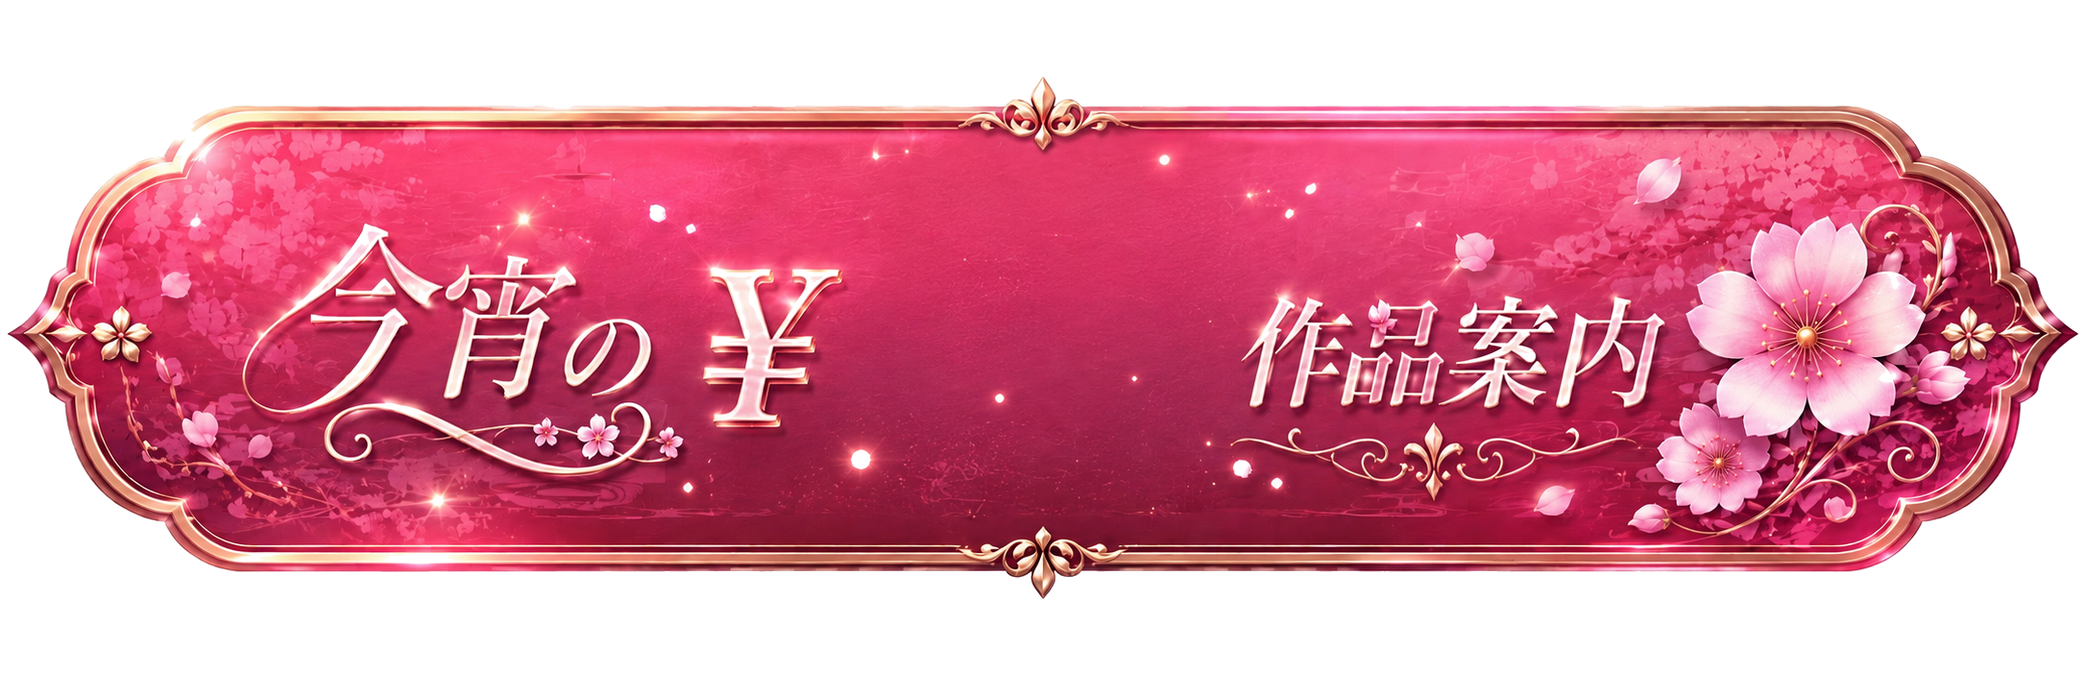
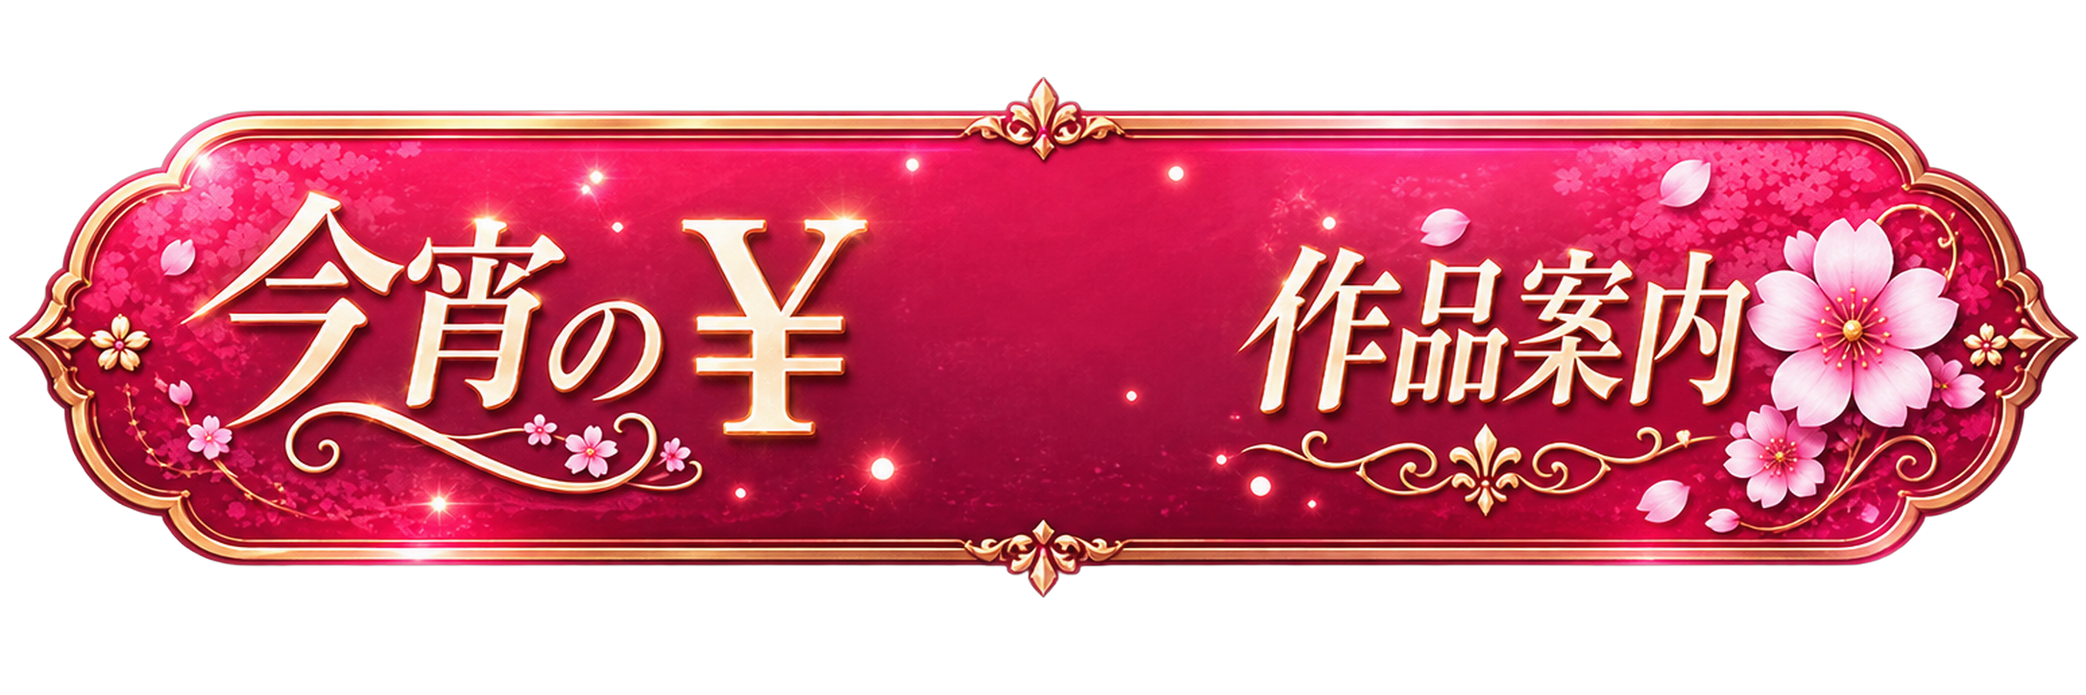
feat(セール札/宵桜価格): 焼き込み文字拡大の新PNGへ差し替え+数字slotを新¥へ追従(v=699)

diff --git a/index.html b/index.html
@@ -14,16 +14,16 @@
 <meta name="apple-mobile-web-app-status-bar-style" content="black-translucent">
 <meta name="apple-mobile-web-app-title" content="5秒動画">
 <meta name="theme-color" content="#0b0f17">
-<link rel="manifest" href="manifest.webmanifest?v=698">
-<link rel="apple-touch-icon" href="assets/icons/app-180.png?v=698">
-<link rel="icon" type="image/png" sizes="192x192" href="assets/icons/app-192.png?v=698">
-<link rel="icon" type="image/png" sizes="512x512" href="assets/icons/app-512.png?v=698">
-<link rel="icon" type="image/png" href="assets/icons/app-192.png?v=698">
+<link rel="manifest" href="manifest.webmanifest?v=699">
+<link rel="apple-touch-icon" href="assets/icons/app-180.png?v=699">
+<link rel="icon" type="image/png" sizes="192x192" href="assets/icons/app-192.png?v=699">
+<link rel="icon" type="image/png" sizes="512x512" href="assets/icons/app-512.png?v=699">
+<link rel="icon" type="image/png" href="assets/icons/app-192.png?v=699">
 <title>5秒動画メーカー</title>
 <link rel="preconnect" href="https://fonts.googleapis.com">
 <link rel="preconnect" href="https://fonts.gstatic.com" crossorigin>
 <link href="https://fonts.googleapis.com/css2?family=Noto+Sans+JP:wght@500;700;900&display=swap" rel="stylesheet">
-<link rel="stylesheet" href="style.css?v=698">
+<link rel="stylesheet" href="style.css?v=699">
 <script>
 /* 継ぎ目対策(2026-07-29): タブ背景のCSSフック(data-tab)を「描画前」に確定させる。
    これが無いと、復元先タブ(予約/分析/候補/ランキング)のクリーム封鎖が効くのは
@@ -47,7 +47,7 @@ try {
   }, true);
   document.addEventListener('DOMContentLoaded', function () {
     try {
-      // ★v=605の filter は /\.js$/ で判定していたが、実ファイル名は "bluesky.js?v=698" と
+      // ★v=605の filter は /\.js$/ で判定していたが、実ファイル名は "bluesky.js?v=699" と
       //   ?v= が付くため全て弾かれ、初期化エラーが1件も出ず「例外なし」に見えていた(2026-08-03 真因)。
       //   クエリを外してから .js を判定する。加えて、拾えた未捕捉エラーはそのまま出す(沈黙を残さない)。
       var errs = (window.__go5Errs || []).filter(function (e) {
@@ -84,11 +84,11 @@ try {
 <nav class="tabbar">
   <button id="tabCand"    class="tab">💡 候補</button>
   <button id="tabVerify" class="tab">📋 投稿履歴</button>
-  <button id="tabMovie" class="tab active"><img class="emico" src="assets/icons/ic-movie.png?v=698" alt=""> 動画作成</button>
+  <button id="tabMovie" class="tab active"><img class="emico" src="assets/icons/ic-movie.png?v=699" alt=""> 動画作成</button>
   <button id="tabStock" class="tab">📦 ドラフト</button>
   <button id="tabYT"    class="tab"><svg viewBox="0 0 28 20" style="height:1em;width:1.4em;vertical-align:-0.18em" aria-hidden="true"><rect width="28" height="20" rx="6" fill="#FF0000"/><path d="M11 6 L11 14 L20 10 Z" fill="#fff"/></svg> 投稿</button>
-  <button id="tabPost"  class="tab"><img class="emico" src="assets/icons/ic-bsky.png?v=698" alt=""> 投稿</button>
-  <button id="tabAffi"  class="tab"><img class="emico" src="assets/icons/ic-link.png?v=698" alt=""> AFIリンク</button>
+  <button id="tabPost"  class="tab"><img class="emico" src="assets/icons/ic-bsky.png?v=699" alt=""> 投稿</button>
+  <button id="tabAffi"  class="tab"><img class="emico" src="assets/icons/ic-link.png?v=699" alt=""> AFIリンク</button>
   <button id="tabSettings" class="tab">⚙ 詳細設定</button>
 </nav>
 
@@ -279,13 +279,13 @@ try {
   <section class="card">
     <label class="bsky-toggle">
       <input id="bskyEnable" type="checkbox">
-      <span><img class="emico" src="assets/icons/ic-bsky.png?v=698" alt="Bluesky"> 動画作成後に Bluesky へ自動投稿する</span>
+      <span><img class="emico" src="assets/icons/ic-bsky.png?v=699" alt="Bluesky"> 動画作成後に Bluesky へ自動投稿する</span>
     </label>
     <label class="bsky-toggle" style="margin-top:8px;">
       <input id="testMode" type="checkbox">
       <span>🧪 テストモード(Blueskyへは実際に投稿するが、記録シートには残さない)</span>
     </label>
-    <div class="hint">本文は「<img class="emico" src="assets/icons/ic-bsky.png?v=698" alt="Bluesky"> 投稿」タブで編集した内容、画像は<b>この動画の元写真</b>を添付します。アカウント設定も「<img class="emico" src="assets/icons/ic-bsky.png?v=698" alt="Bluesky"> 投稿」タブにあります。<br>単独で投稿したいときは「<img class="emico" src="assets/icons/ic-bsky.png?v=698" alt="Bluesky"> 投稿」タブの「今すぐ投稿」をどうぞ。</div>
+    <div class="hint">本文は「<img class="emico" src="assets/icons/ic-bsky.png?v=699" alt="Bluesky"> 投稿」タブで編集した内容、画像は<b>この動画の元写真</b>を添付します。アカウント設定も「<img class="emico" src="assets/icons/ic-bsky.png?v=699" alt="Bluesky"> 投稿」タブにあります。<br>単独で投稿したいときは「<img class="emico" src="assets/icons/ic-bsky.png?v=699" alt="Bluesky"> 投稿」タブの「今すぐ投稿」をどうぞ。</div>
     <div class="movie-work" style="margin-top:12px;">
       <label class="field-label" for="movieWorkUrl" style="margin:0 0 4px;font-size:.8rem;">📕 今回案内する作品URL(今日の作品を貼る・取り違え防止)</label>
       <a id="movieWorkLink" href="#" target="_blank" rel="noopener noreferrer" style="display:block;white-space:nowrap;overflow:hidden;text-overflow:ellipsis;color:var(--accent);font-size:.85rem;min-height:1.4em;margin-bottom:4px;">(URLを入力してください)</a>
@@ -323,7 +323,7 @@ try {
       <label class="disc-new"><input id="discountNew2" type="checkbox"><span>新作</span></label>
       <label class="disc-new"><input id="discountDigest2" type="checkbox"><span>総集編</span></label>
       <label class="disc-new"><input id="movieJunshinsaku" type="checkbox"><span>準新作</span></label>
-      <span class="hint" style="margin:0;">投稿本文(自動投稿・今すぐ投稿で共通)に割引文を挿入します。「<img class="emico" src="assets/icons/ic-bsky.png?v=698" alt="Bluesky">投稿」タブの本文に反映されます。「新作」で「オフの新作」、「総集編」で「オフの総集編」、両方で「オフの新作&総集編」に文面が変わります。<br>「準新作」は本文に影響しませんが、投稿時の<b>作品状態</b>として記録します。(新作・準新作いずれも無し＝旧作)</span>
+      <span class="hint" style="margin:0;">投稿本文(自動投稿・今すぐ投稿で共通)に割引文を挿入します。「<img class="emico" src="assets/icons/ic-bsky.png?v=699" alt="Bluesky">投稿」タブの本文に反映されます。「新作」で「オフの新作」、「総集編」で「オフの総集編」、両方で「オフの新作&総集編」に文面が変わります。<br>「準新作」は本文に影響しませんが、投稿時の<b>作品状態</b>として記録します。(新作・準新作いずれも無し＝旧作)</span>
     </div>
     <div class="status" id="bskyStatus"></div>
   </section>
@@ -360,7 +360,7 @@ try {
   <div class="cal-frame-wrap">
     <iframe id="calFrame" class="cal-frame" title="投稿スケジュール カレンダー" loading="lazy"></iframe>
   </div>
-  <p class="hint" style="text-align:center;max-width:520px;margin:8px auto 0;">📅 最適な投稿スロット(日時・枠)を管理。各枠を決めたら「<img class="emico" src="assets/icons/ic-movie.png?v=698" alt=""> 動画作成」「<img class="emico" src="assets/icons/ic-bsky.png?v=698" alt="Bluesky"> 投稿」へ。データはこの端末内で共有されます。</p>
+  <p class="hint" style="text-align:center;max-width:520px;margin:8px auto 0;">📅 最適な投稿スロット(日時・枠)を管理。各枠を決めたら「<img class="emico" src="assets/icons/ic-movie.png?v=699" alt=""> 動画作成」「<img class="emico" src="assets/icons/ic-bsky.png?v=699" alt="Bluesky"> 投稿」へ。データはこの端末内で共有されます。</p>
 </section>
 
 <!-- YouTube投稿画面：題名・タグ・短縮URL・概要欄(コピーして使う) -->
@@ -381,12 +381,12 @@ try {
 
   <!-- 短縮URL表示 ＋ YouTube説明欄 -->
   <section class="card">
-    <div class="field-label"><img class="emico" src="assets/icons/ic-link.png?v=698" alt="リンク"> 最新の投稿(短縮URL)</div>
+    <div class="field-label"><img class="emico" src="assets/icons/ic-link.png?v=699" alt="リンク"> 最新の投稿(短縮URL)</div>
     <div class="short-row">
       <code id="shortUrlOut" class="short-url">投稿すると短縮URLを表示</code>
       <button id="shortUrlCopy" class="copy-btn" type="button">URLをコピー</button>
     </div>
-    <div class="hint">動画作成後の自動投稿／今すぐ投稿のあと、Bluesky投稿のURLを短縮して表示します。(短縮には<img class="emico" src="assets/icons/ic-bsky.png?v=698" alt="Bluesky">投稿タブ⚙の記録用GAS設定が必要)</div>
+    <div class="hint">動画作成後の自動投稿／今すぐ投稿のあと、Bluesky投稿のURLを短縮して表示します。(短縮には<img class="emico" src="assets/icons/ic-bsky.png?v=699" alt="Bluesky">投稿タブ⚙の記録用GAS設定が必要)</div>
 
     <label class="field-label" for="ytDesc" style="margin-top:12px;">📺 YouTube説明欄(コピーして概要欄に貼り付け)</label>
     <textarea id="ytDesc" rows="8">↑ URLを長押し&リンクを開く ↑
@@ -426,7 +426,7 @@ try {
        主運用先・2026-07-23 Chami指定)。本文・テンプレ帳・割引URL管理は下のBluesky欄と共有(同じ
        アカウント別の状態を見ている＝どちらで編集しても両方に反映される)。 -->
   <section class="card" id="xTweetSection">
-    <div class="field-label"><img class="emico" src="assets/icons/ic-x.png?v=698" alt="X"> X(Twitter)用投稿テキスト(コピペして手動投稿)</div>
+    <div class="field-label"><img class="emico" src="assets/icons/ic-x.png?v=699" alt="X"> X(Twitter)用投稿テキスト(コピペして手動投稿)</div>
     <div class="hint">下の「投稿本文」欄(テンプレ帳・割引URL管理を含む)と共通の内容から自動で組み立てます。ここのテキストをコピーしてXへ貼り付けてください。URL は 23文字換算 / 全体 280文字制限(日本語は1字=2で消費)。</div>
     <div id="xAcctHint" style="margin-top:6px;font-size:.82rem;color:var(--sub);"></div>
     <textarea id="xTweetText" rows="6" style="margin-top:8px;font-size:.8rem;word-break:break-all;background:#0a0f1c;color:var(--fg,#e8e8e8);border:1px solid var(--border,#2a3040);border-radius:6px;padding:8px;width:100%;box-sizing:border-box;resize:vertical;"></textarea>
@@ -493,7 +493,7 @@ try {
     <a id="bskyWorkLink" href="#" target="_blank" rel="noopener" style="display:block;overflow:hidden;white-space:nowrap;text-overflow:ellipsis;color:var(--sub);font-size:.85rem;min-height:1.4em;margin-bottom:4px;">(URLを入力してください)</a>
     <input id="bskyWorkUrl" type="url" inputmode="url" placeholder="https://…" autocomplete="off" autocorrect="off" autocapitalize="off" spellcheck="false" style="width:100%;box-sizing:border-box;">
     <div id="bskyWorkAffiPreview" style="margin-top:4px;font-size:.82rem;word-break:break-all;"></div>
-    <div class="hint">af_id は「<img class="emico" src="assets/icons/ic-link.png?v=698" alt="リンク"> アフィリンク」タブの設定を流用。空欄なら本文だけ投稿します。この本文＋作品URLは<b>自動投稿(方法①)でも共通</b>。</div>
+    <div class="hint">af_id は「<img class="emico" src="assets/icons/ic-link.png?v=699" alt="リンク"> アフィリンク」タブの設定を流用。空欄なら本文だけ投稿します。この本文＋作品URLは<b>自動投稿(方法①)でも共通</b>。</div>
   </section>
 
   <!-- 🔥 セール案内URL管理(複数保持・名前付き・追加/選択/保存/削除。選んだURLは次回も自動で使う・アカウント別)。★添付画像より上に配置(Chami指定2026-08-02) -->
@@ -528,7 +528,7 @@ try {
     <div class="field-label">プレビュー(このまま投稿されます)</div>
     <div class="bsky-card">
       <div class="bsky-head">
-        <div class="bsky-av"><img id="pvAvatar" alt="" hidden><span id="pvAvFallback"><img class="emico" src="assets/icons/ic-x.png?v=698" alt="X"></span></div>
+        <div class="bsky-av"><img id="pvAvatar" alt="" hidden><span id="pvAvFallback"><img class="emico" src="assets/icons/ic-x.png?v=699" alt="X"></span></div>
         <div>
           <div class="bsky-name" id="pvName">あなた</div>
           <div class="bsky-handle" id="pvHandle">@(ハンドル未設定)</div>
@@ -546,7 +546,7 @@ try {
     <label class="field-label" for="postSchedAt" style="font-size:.8rem;margin:0 0 4px;">⏰ 予約時刻(今すぐ投稿なら空欄のまま)</label>
     <input id="postSchedAt" type="datetime-local" style="margin-bottom:10px;width:100%;box-sizing:border-box;font-size:.88rem;">
     <div style="display:flex;gap:8px;">
-      <button id="postNowBtn" class="primary bsky-post-btn" style="flex:1;font-size:.88rem;padding:7px 10px;"><img class="emico" src="assets/icons/ic-x.png?v=698" alt="X"> 今すぐ投稿</button>
+      <button id="postNowBtn" class="primary bsky-post-btn" style="flex:1;font-size:.88rem;padding:7px 10px;"><img class="emico" src="assets/icons/ic-x.png?v=699" alt="X"> 今すぐ投稿</button>
       <button id="postReserveBtn" class="ghost" style="flex:1;font-size:.88rem;padding:7px 10px;">⏰ 予約して投稿</button>
     </div>
     <div class="status" id="postStatus"></div>
@@ -645,14 +645,14 @@ try {
 <main>
   <!-- 再生数・クリック数(投稿別・このアカウント) -->
   <section class="card">
-    <div class="field-label">▶<img class="emico" src="assets/icons/ic-link.png?v=698" alt="リンク"> 再生数・クリック数(投稿別・このアカウント)</div>
+    <div class="field-label">▶<img class="emico" src="assets/icons/ic-link.png?v=699" alt="リンク"> 再生数・クリック数(投稿別・このアカウント)</div>
     <div class="hint">投稿した<b>短縮URLのクリック数</b>と、説明欄に載せた<b>YouTube動画の再生数</b>を一覧します。各行の「YouTube URL」を入れると、その動画の<b>再生数</b>と<b>YouTube投稿日時</b>を取得します。(取得には ⚙詳細設定 のAPIキーが必要)<br>日時は<b>YouTubeに投稿した時刻</b>を表示し、新しい順に並びます。URL未入力で投稿日時が不明なものは下にまとめます。</div>
     <details class="tools-fold">
       <summary>⚙ 管理・診断ツール(手動追加/同期/整理/修復)</summary>
       <div class="tools-fold-body">
         <div class="yt-updrow">
-          <button id="ytFetchDmm" class="ghost yt-updbtn" type="button"><span class="ub-l1"><img class="emico fico" src="assets/icons/ic-fanza.png?v=698" alt="F"> DMM</span><span class="ub-l2">作品情報を取得</span></button>
-          <button id="ytClickRefresh" class="ghost yt-updbtn" type="button"><span class="ub-l1"><img class="emico" src="assets/icons/ic-link.png?v=698" alt=""> &amp; 🔄</span><span class="ub-l2">更新</span></button>
+          <button id="ytFetchDmm" class="ghost yt-updbtn" type="button"><span class="ub-l1"><img class="emico fico" src="assets/icons/ic-fanza.png?v=699" alt="F"> DMM</span><span class="ub-l2">作品情報を取得</span></button>
+          <button id="ytClickRefresh" class="ghost yt-updbtn" type="button"><span class="ub-l1"><img class="emico" src="assets/icons/ic-link.png?v=699" alt=""> &amp; 🔄</span><span class="ub-l2">更新</span></button>
         </div>
         <div class="status" id="ytDmmStatus" style="text-align:left;margin-top:6px;"></div>
         <div class="status" id="ytClickStatus" style="text-align:left;margin-top:6px;"></div>
@@ -664,9 +664,9 @@ try {
           <button id="ytLossEvidence" class="ghost" type="button" title="投稿履歴が減った瞬間に自動記録された証拠を表示します(消えた時の原因調査用)">🕵 履歴消失の証拠を見る</button>
           <button id="ytRepairLinks" class="ghost" type="button">🔧 YT情報を診断・修復</button>
           <button id="ytRestoreHist" class="ghost" type="button">📥 シートから投稿履歴を復元</button>
-          <button id="ytBulkGen" class="ghost" type="button" style="font-size:11px;padding:4px 8px;opacity:.7;"><img class="emico" src="assets/icons/ic-link.png?v=698" alt="リンク"> 計測リンク再生成</button>
+          <button id="ytBulkGen" class="ghost" type="button" style="font-size:11px;padding:4px 8px;opacity:.7;"><img class="emico" src="assets/icons/ic-link.png?v=699" alt="リンク"> 計測リンク再生成</button>
         </div>
-        <div class="hint">投稿履歴を開くと、未生成の投稿に<b>計測用の短縮リンクが自動生成</b>されます。(各行の「Bsky↗」が計測用URL。長押しでコピー→YouTube概要欄に貼り替え)「<img class="emico" src="assets/icons/ic-link.png?v=698" alt="リンク"> 計測リンク再生成」は手動でやり直したいときだけ使います。</div>
+        <div class="hint">投稿履歴を開くと、未生成の投稿に<b>計測用の短縮リンクが自動生成</b>されます。(各行の「Bsky↗」が計測用URL。長押しでコピー→YouTube概要欄に貼り替え)「<img class="emico" src="assets/icons/ic-link.png?v=699" alt="リンク"> 計測リンク再生成」は手動でやり直したいときだけ使います。</div>
         <div class="hint">「📤 スプレッドシートへ同期」＝この投稿履歴を正として、ID・投稿日時・題名・視聴回数・短縮URL・クリック数・作品cid・キャラ属性を記録シートへまとめて反映します。(押すと最新の再生数等を取得してから送信。記録用GAS設定時のみ)<br>「🧹 履歴を整理」＝この投稿履歴に無い行を記録シートから消去します。(このアカウントのタブのみ)</div>
       </div>
     </details>
@@ -867,7 +867,7 @@ try {
 <!-- 投稿前の編集できる確認(方法①自動投稿で使用) -->
 <div id="postConfirmModal" class="pc-modal" hidden>
   <div class="pc-card">
-    <div class="pc-title"><img class="emico" src="assets/icons/ic-bsky.png?v=698" alt="Bluesky"> この内容で Bluesky に投稿します(編集できます)</div>
+    <div class="pc-title"><img class="emico" src="assets/icons/ic-bsky.png?v=699" alt="Bluesky"> この内容で Bluesky に投稿します(編集できます)</div>
     <div class="pc-agecheck">⚠ 1コマ目・サムネは全年齢で大丈夫？<span>電車内で見られて困らないコマだけ使う。露出・挑発ポーズは年齢制限→Shortsのフィード配信が止まります。</span></div>
     <div class="pc-work-row" style="margin-bottom:8px;">
       <label for="pcWorkUrl" class="field-label" style="margin:0 0 4px;display:block;">📕 案内する作品URL(今日の作品か必ず確認)</label>
@@ -914,43 +914,43 @@ try {
 <video id="bg" muted loop playsinline preload="none" hidden></video>
 
 <!-- ── core 層(共通土台・最初に読み込む)：util/account/storage-keys ─────────── -->
-<script src="core/util.js?v=698"></script>
-<script src="core/account.js?v=698"></script>
-<script src="core/storage-keys.js?v=698"></script>
-<script src="core/categories.js?v=698"></script>
-<script src="core/idb-store.js?v=698"></script>
-<script src="core/sync.js?v=698"></script>
-<script src="core/kaizen-log.js?v=698"></script>
+<script src="core/util.js?v=699"></script>
+<script src="core/account.js?v=699"></script>
+<script src="core/storage-keys.js?v=699"></script>
+<script src="core/categories.js?v=699"></script>
+<script src="core/idb-store.js?v=699"></script>
+<script src="core/sync.js?v=699"></script>
+<script src="core/kaizen-log.js?v=699"></script>
 <!-- ── 機能層 ─────────────────────────────────────────────────────────────── -->
-<script src="idgen.js?v=698"></script>
-<script src="app.js?v=698"></script>
-<script src="promo-label.js?v=698"></script>
-<script src="affiliate-core.js?v=698"></script>
-<script src="fanza-core.js?v=698"></script>
-<script src="affiliate.js?v=698"></script>
-<script src="bluesky-core.js?v=698"></script>
-<script src="scheduler.js?v=698"></script>
-<script src="bluesky.js?v=698"></script>
-<script src="drive-upload.js?v=698"></script>
-<script src="verify-core.js?v=698"></script>
-<script src="verify.js?v=698"></script>
-<script src="schedule/data/holidays.js?v=698"></script>
-<script src="hist-merge-core.js?v=698"></script>
-<script src="rank-core.js?v=698"></script>
-<script src="yt-clicks.js?v=698"></script>
-<script src="competitor.js?v=698"></script>
-<script src="link-ledger.js?v=698"></script>
-<script src="integration.js?v=698"></script>
-<script src="wizard.js?v=698"></script>
-<script src="drafts.js?v=698"></script>
-<script src="stock.js?v=698"></script>
-<script src="candidates.js?v=698"></script>
-<script src="api-diag.js?v=698"></script>
-<script src="settings-io.js?v=698"></script>
-<script src="theme-settings.js?v=698"></script>
-<script src="categories-ui.js?v=698"></script>
-<script src="persist-fields.js?v=698"></script>
-<script src="secret-reveal.js?v=698"></script>
+<script src="idgen.js?v=699"></script>
+<script src="app.js?v=699"></script>
+<script src="promo-label.js?v=699"></script>
+<script src="affiliate-core.js?v=699"></script>
+<script src="fanza-core.js?v=699"></script>
+<script src="affiliate.js?v=699"></script>
+<script src="bluesky-core.js?v=699"></script>
+<script src="scheduler.js?v=699"></script>
+<script src="bluesky.js?v=699"></script>
+<script src="drive-upload.js?v=699"></script>
+<script src="verify-core.js?v=699"></script>
+<script src="verify.js?v=699"></script>
+<script src="schedule/data/holidays.js?v=699"></script>
+<script src="hist-merge-core.js?v=699"></script>
+<script src="rank-core.js?v=699"></script>
+<script src="yt-clicks.js?v=699"></script>
+<script src="competitor.js?v=699"></script>
+<script src="link-ledger.js?v=699"></script>
+<script src="integration.js?v=699"></script>
+<script src="wizard.js?v=699"></script>
+<script src="drafts.js?v=699"></script>
+<script src="stock.js?v=699"></script>
+<script src="candidates.js?v=699"></script>
+<script src="api-diag.js?v=699"></script>
+<script src="settings-io.js?v=699"></script>
+<script src="theme-settings.js?v=699"></script>
+<script src="categories-ui.js?v=699"></script>
+<script src="persist-fields.js?v=699"></script>
+<script src="secret-reveal.js?v=699"></script>
 <script>
 /* ★起動時に「今この端末が実際に読み込んでいる版」をconsoleへ1行出す(2026-08-07)。
    狙い= 「まだ直らない/まだリロードする」報告が“古いJSが端末に張り付いているだけ”なのか

diff --git a/promo-label.js b/promo-label.js
@@ -57,7 +57,9 @@
       discount: { src: 'assets/promo/yoizakura-discount-base.png',
                   slot: { x: 0.364, y: 0.260, w: 0.211, h: 0.490 } },
       price:    { src: 'assets/promo/yoizakura-price-base.png',
-                  slot: { x: 0.405, y: 0.260, w: 0.175, h: 0.490 } }
+                  // 2026-08-10 焼き込み文字拡大の新PNGへ差し替え(Chami)。新¥は字面中心0.474・右端0.404・高さ0.283。
+                  //   ¥の右〜作品案内(左端0.608)の空きへ数字を置く=中心x0.502/縦中心0.474・高さは¥へ揃う。
+                  slot: { x: 0.410, y: 0.272, w: 0.185, h: 0.405 } }
     }
   };
   var _imgCache = {};
